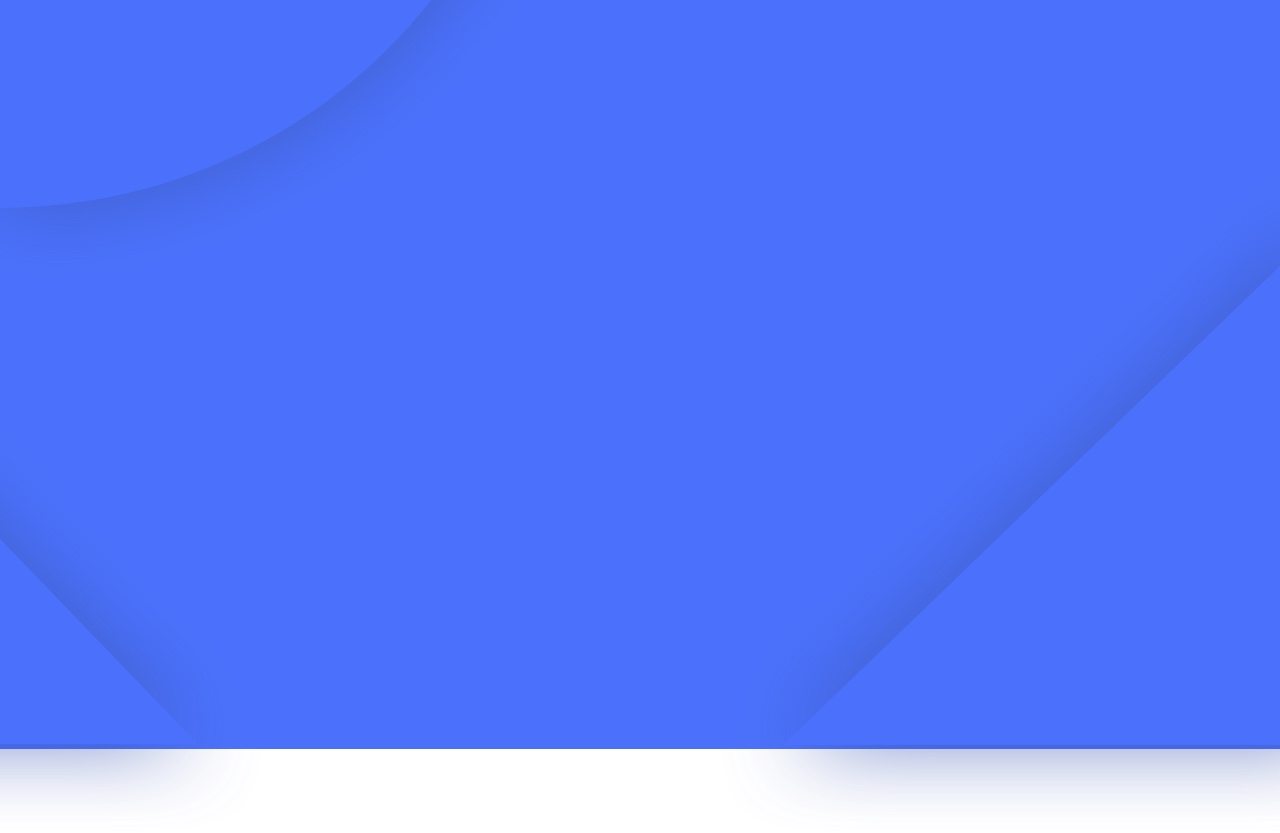
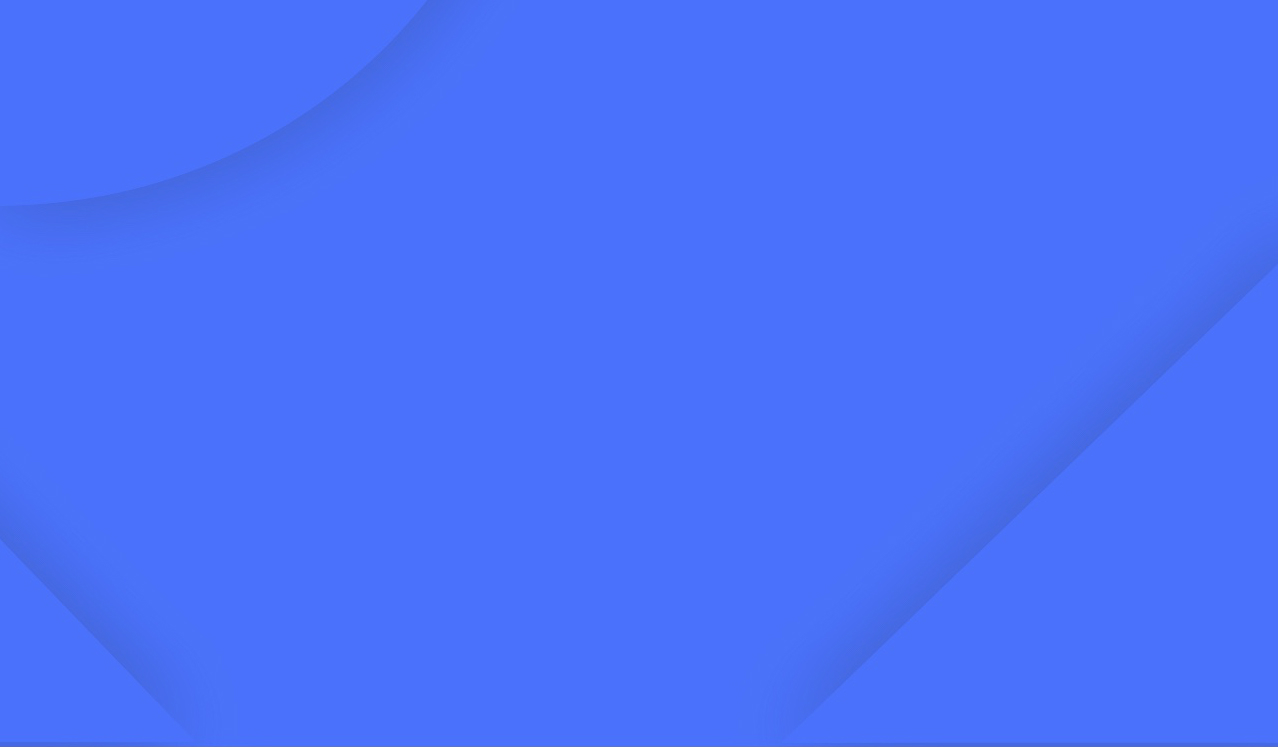
Part 1 of Home Page Design (#26)
CSS updates for styling new home page html elements based on DESIGN-1487
Updated copy as well

diff --git a/source/stylesheets/_custom.scss b/source/stylesheets/_custom.scss
@@ -1,10 +1,63 @@
 .block-container {
-    padding-top: 0 !important;
+  padding-top: 0 !important;
 }
 
 .home-block {
-    background: url('/images/hero.svg') no-repeat 100%;
-    background-size: 575px;
+  background: url('../images/HomePage.jpg') no-repeat 100%;
+  background-size: 100% 100%;
+  color: #fff;
+  text-align: center;
+  padding-top: 0;
+
+  h1 {
+    color: #fff;
+    font-weight: 600;
+  }
+
+  .block-text {
+    position: relative;
+    left: 50%;
+    vertical-align: top;
+  }
+
+  .type-large {
+    font-size: 1rem;
+  }
+
+  a {
+    color: #fff;
+  }
+}
+
+.blocks-home {
+  position: relative;
+  left: 15%;
+  width: 70%;
+  text-align: center;
+
+  h2 {
+    color: #4f75f8;
+    font-weight: 600;
+    letter-spacing: 3px;
+    text-transform: uppercase;
+  }
+
+  a {
+    font-size: 0.9rem;
+    text-transform: uppercase;
+  }
+
+  img {
+    width: 100%;
+  }
+}
+
+@media (min-width: 769px) {
+  .blocks-home {
+    h2 {
+      font-size: 2.2rem;
+    }
+  }
 }
 
 @media (max-width: 1023px) {
